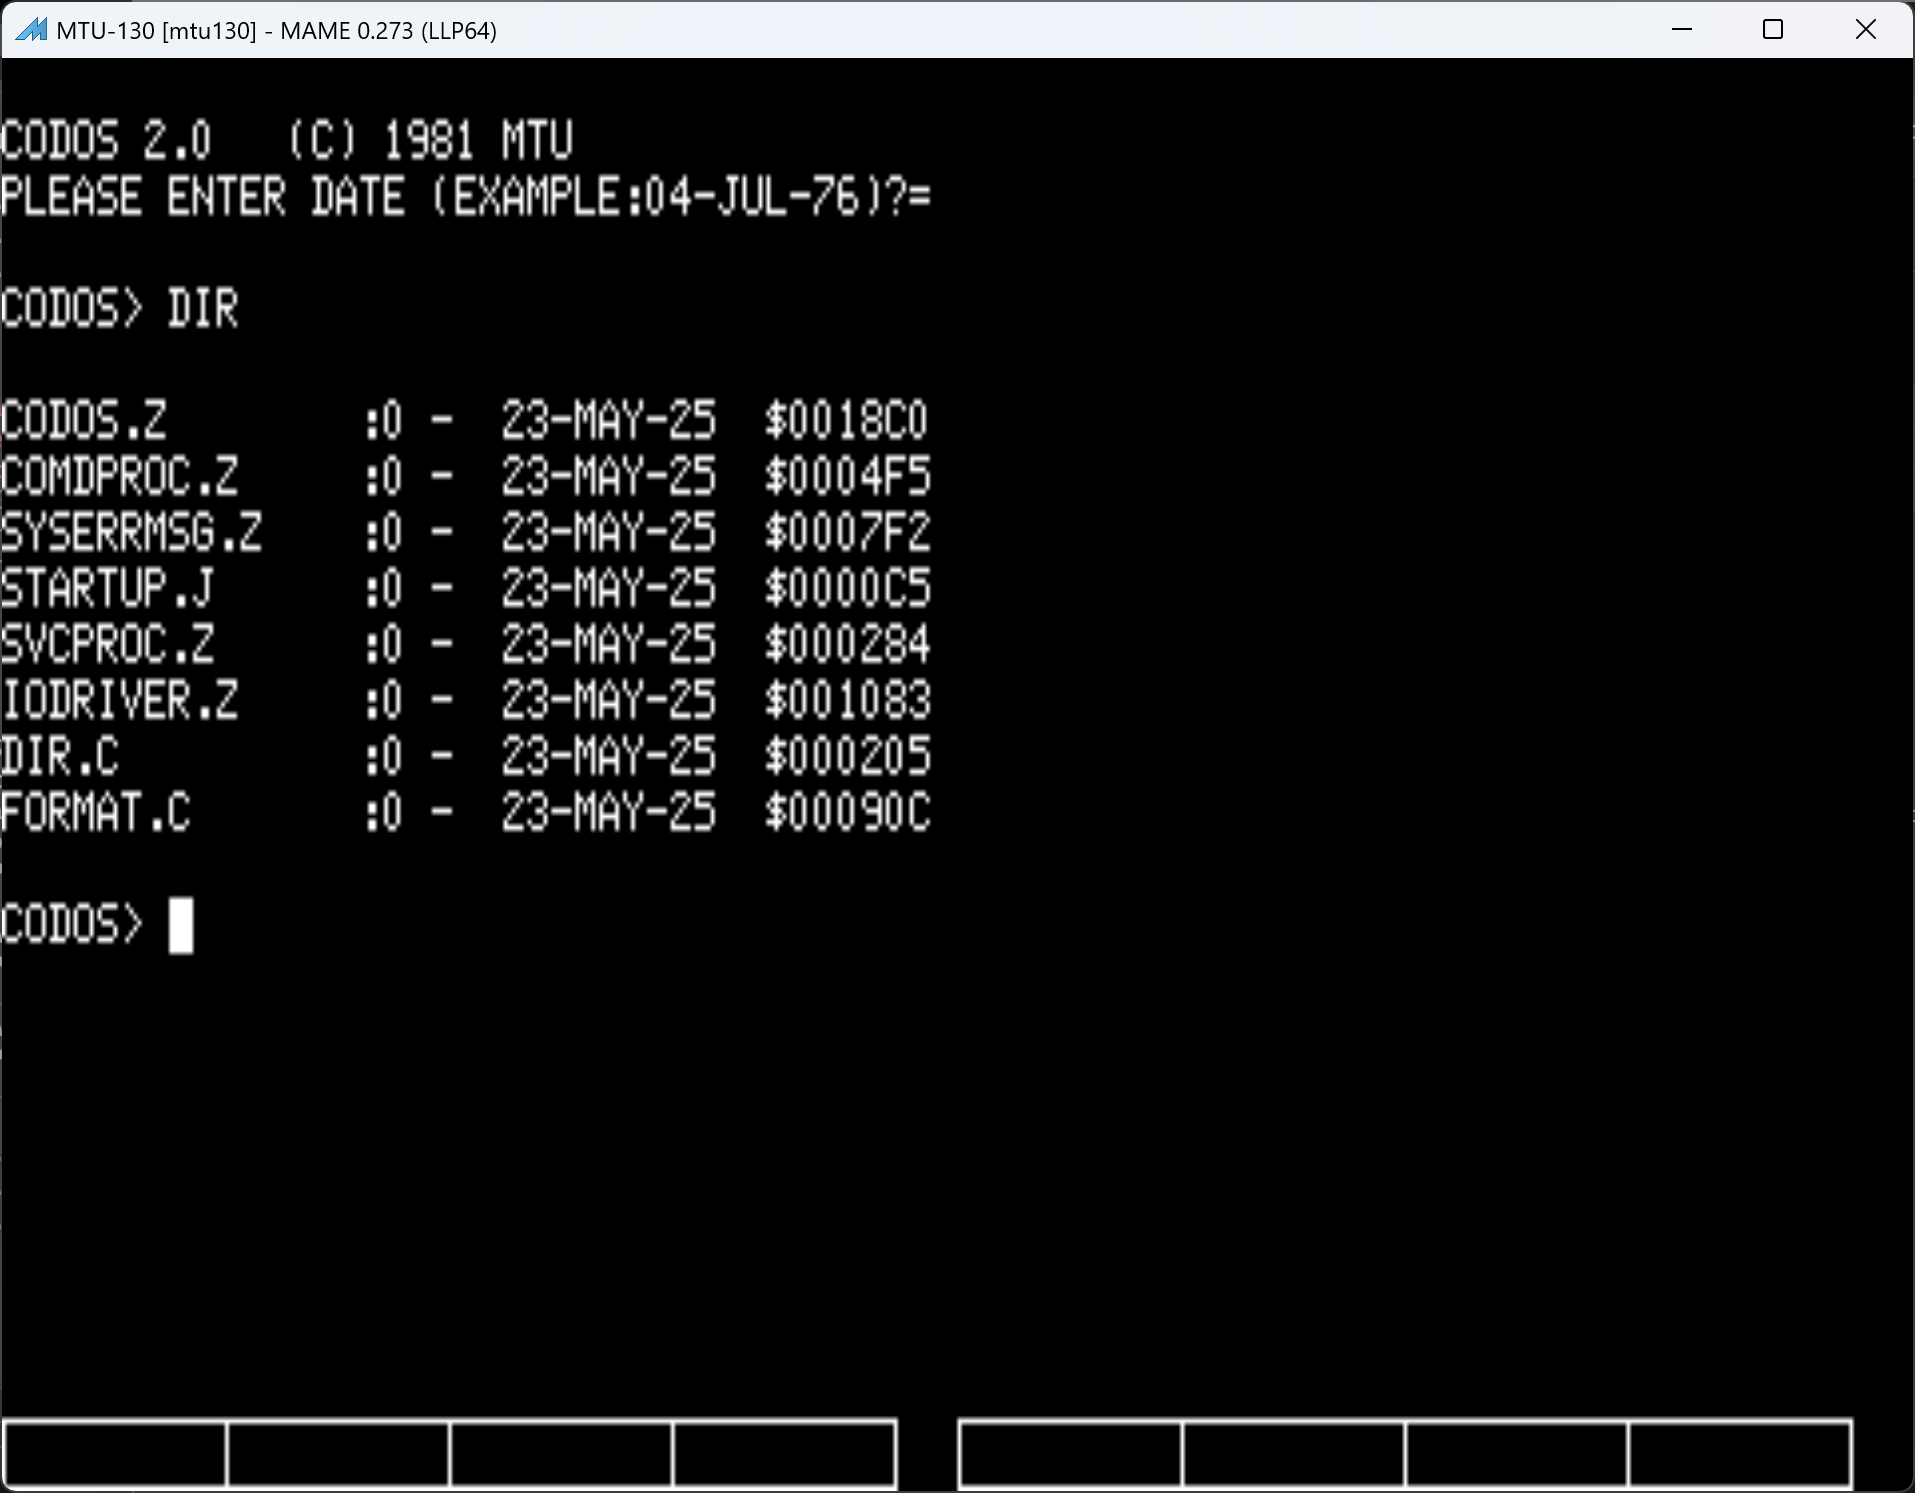
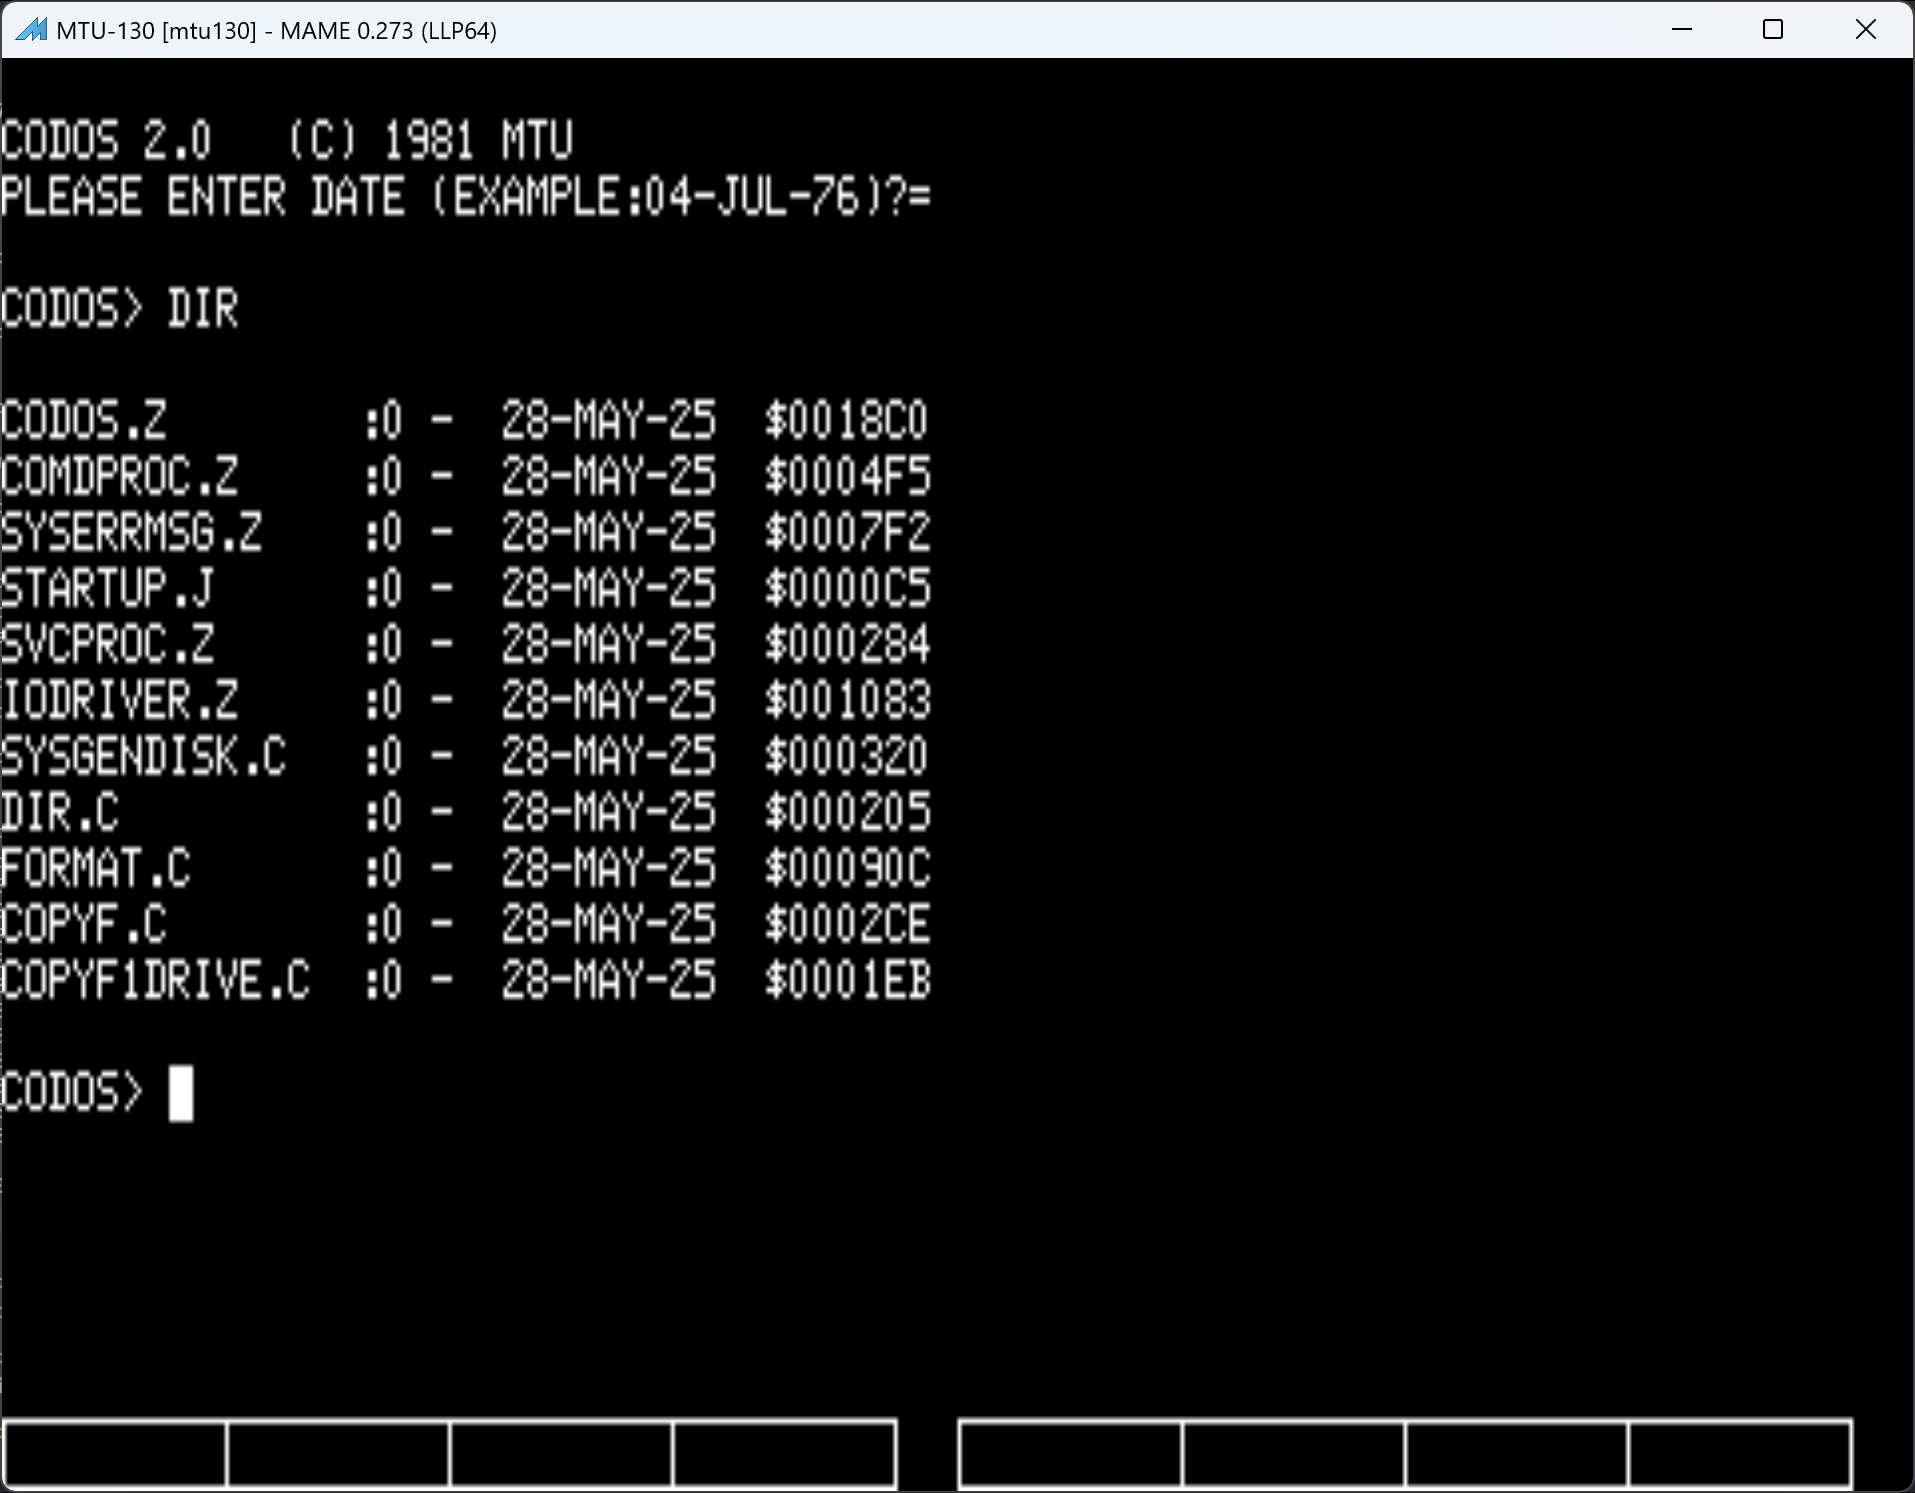
Update README.md with latest info

diff --git a/README.md b/README.md
@@ -26,9 +26,9 @@ There are also some system utilities which make the OS minimally useful:
 
 ## Current status
 
-* `CODOS.Z`, `COMDPROC.Z`, `SVCPROC.Z`, `OVERLAYS`, `STARTUP.J`, `SYSERRMSG.Z`, `DIR.C`, `FORMAT.C` and `COPYF1DRIVE.C` are completed.
+* `CODOS.Z`, `COMDPROC.Z`, `SVCPROC.Z`, `OVERLAYS`, `STARTUP.J`, `SYSERRMSG.Z`, `DIR.C`, `FORMAT.C`, `COPYF.C` and `COPYF1DRIVE.C` are completed.
 * `IODRIVER.Z` is disassembled, partially annotated and builds from source, but it is far from complete. All the credit for `IODRIVER.Z` goes to [Michał Staręga](https://github.com/McGyverMauser98k/MTU-130-CODOS), who figured out the internal structure of the driver.
-* `COPYF.C`, `SYSGENDISK.C` and `SYSGENDEVICE.C` are not even started.
+* `SYSGENDEVICE.C` is not even started.
 
 ## Why?
 
